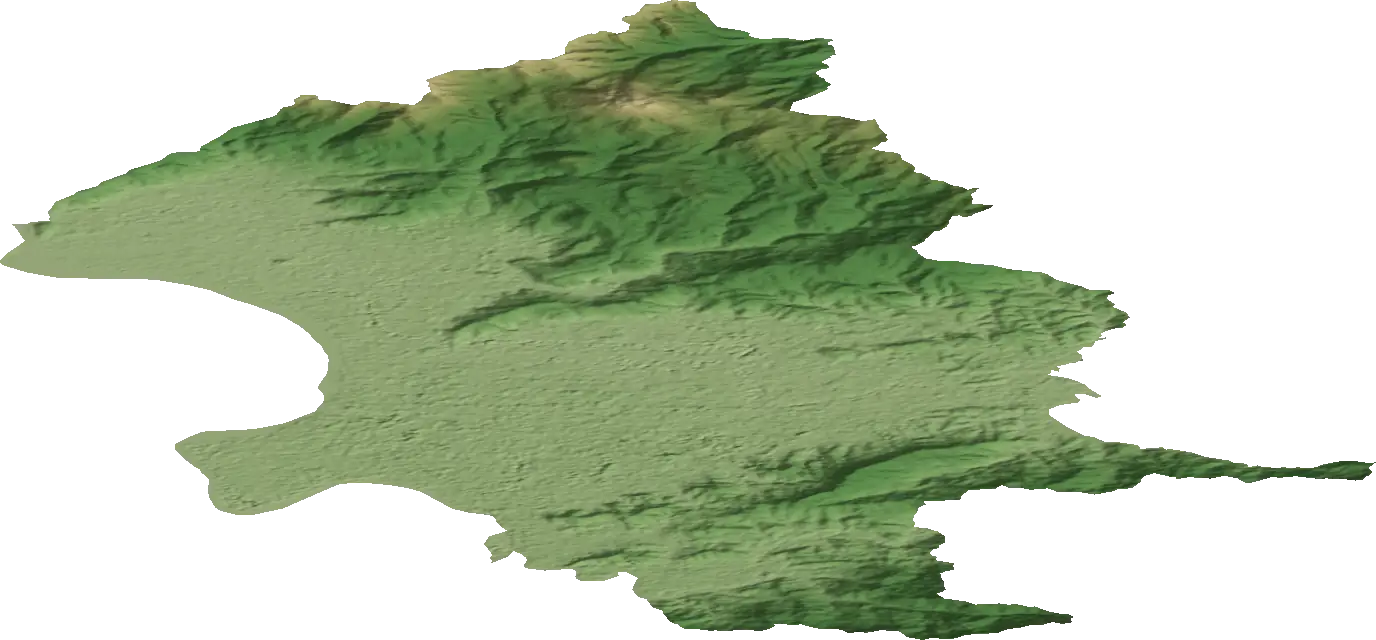
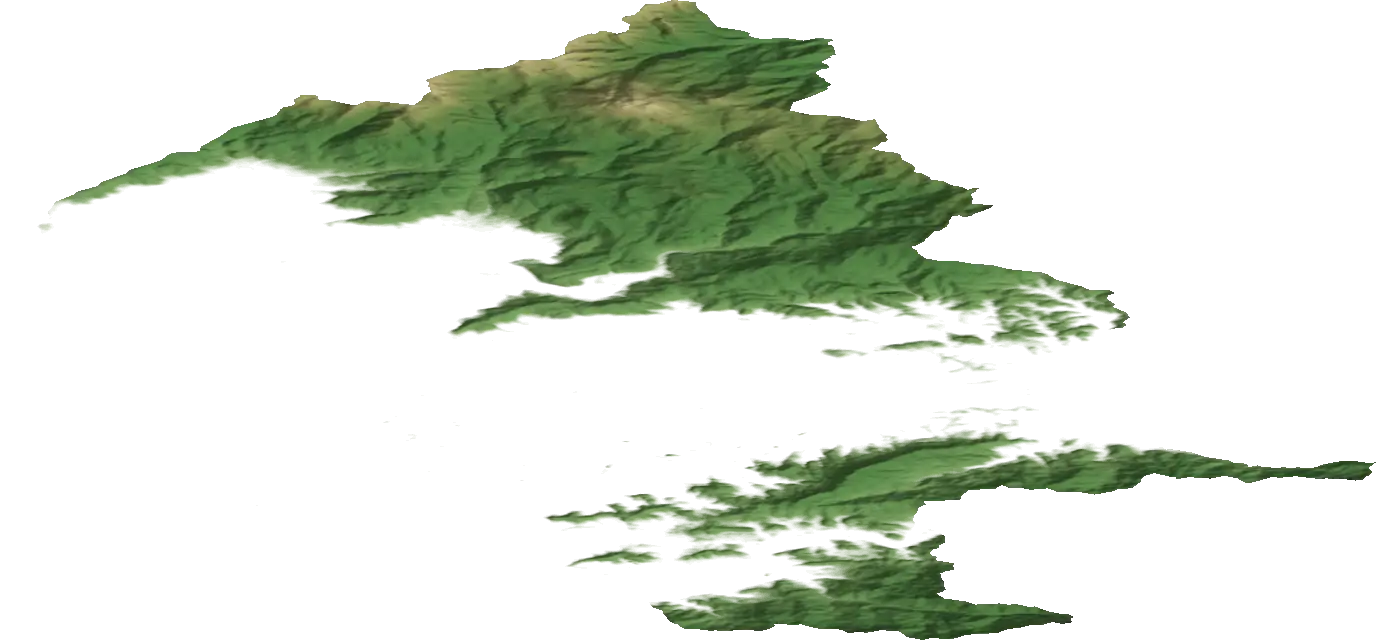
汪星的地形圖只畫山：海拔 30 公尺以下的盆地、平地透明（維持原本的樣子），30～90 公尺慢慢出現，山腳融進平地（WebP 透明度壓一點，約 40 KB）

Changed region(s): [[0.0, 0.25, 0.875, 0.9688]]

diff --git a/README.md b/README.md
@@ -80,7 +80,7 @@ worker/   Cloudflare Worker（API、排程、資料庫）
 ## 手機介面
 
 - 以手機直式為主：雷達占滿中間，底部是可上拉的清單面板，桌機則把清單放右側欄。
-- 雷達左下可切 1 / 5 / 20 km、「雙北」「全台」「全球」範圍。從「全球」再用雙指、滾輪拉遠就是太空（`web/src/space.ts`，第一次用到才載入；沒有另外的按鈕、不用切換，最遠 50 億 km），跟雷達平常一樣用虛線畫在海岸線那一層、刻度圈照樣有（寫幾萬、幾億 km；超過地球另一面的在雷達外面，不畫，電腦版雷達兩旁還有空間才不會露出一圈），太空裡一次縮放的幅度是平常的平方（從全球到海王星約 20 格滾輪）：先是以你為中心的地球（正射投影，陸地跟全球一樣淡淡填色、虛線海岸，經緯線每 30 度，夜晚的那一半照現在時間淡淡變暗；太陽直射點用簡化公式，誤差不到 1 度），剛超過全球時塞滿雷達，拉遠到 4 倍以後照真實比例（`globeFrac`），光點照球面擺、地球另一面的不畫，地球小到看不出光點在哪就不畫光點；陸地在另一面的那一段沿著地球邊緣走短的那邊（南北美洲連成一塊、繞過台灣正對面，照每個點走會把整個地球塗滿）。再拉遠是月球的軌道和月球（簡化公式），太陽、八大行星和軌道，加上地球和火星之間虛構的「汪星」（1.26 AU、約 1.4 年繞一圈；放大到看得出形狀就跟地球一樣畫成球：經緯線、虛線的邊，夜晚那一半照太陽真正的方向，正中間的經緯度跟著拖曳轉；地表是台北市（`web/src/taipei.ts`：市界、12 區的區界來自 OpenStreetMap 行政界，道路跟雷達 8 km 內一樣是 OpenFreeMap z11 圖磚的國道、快速道路粗線和主要、次要幹道細線，只留市界裡面的，照攤到汪星上的大小簡化，© OpenStreetMap contributors，ODbL）：市界的範圍照經緯度攤開包住整顆汪星（緯度 ±80 度、經度 ±172 度，`toWoof`，東西向拉寬了），市界外面、南北極、背面接縫是海；汪星的大小照台北市的面積算（`WOOF_KM`：陸地面積跟台北市一樣，半徑約 6.6 km，平均是台北的真實大小，東西向赤道附近寬約 1.9 倍、南北向約 0.66 倍）；只用線條、不畫虛線（經緯線、海岸線、區界、球的邊都不畫，海岸和球的邊看陸地、海的顏色；陸地淡淡填色，陸地以外的海淡淡的水色（`woof-sea`：整顆挖掉陸地，放大很多時雷達整個在球上就用畫面的範圍），拉近到外圈約 500 公尺內海上有一道道水波（`woof-ripple`，跟公園的水池同一種撒法 `scatter`），山是真實的地形圖（`web/src/woof-relief.webp`，約 34 KB，第一次看汪星的地圖才下載）：用 AWS Terrain Tiles（terrarium z13，高度資料來自 SRTM 等）照台北真實的高度上色（盆地淡綠、山上森林深綠、最高的草原偏黃褐），加上山的光影（光從西北方 45 度照下來、起伏放大 2 倍），只留台北市界裡面的，攤在汪星的經緯度上（1376×640）；雷達底色上面另外一層 canvas（`radar.ts` 的 `paintRelief`，對齊 SVG 的正方形、裁成雷達的圓，最多 480 像素見方、拖曳時 200，CSS 放大），`space.ts` 的 `paintWoofRelief` 每一個像素反推回汪星的經緯度（正射投影反過來，扣掉指北針轉的角度；每 4 個像素精算一次、中間內插，球的邊和接縫逐點算）去地形圖上取顏色（附近四格照距離混），夜晚那一半、海、道路照樣畫在上面；拉近慢慢變淡（外圈約 3 公里內開始、約 400 公尺內不畫），鎖定跟著狗走時跟著平移，區界跟縣市界一樣淡的虛線，球夠大才畫道路，區名不寫）。陸地比半個球大，海岸線轉到另一面的地方從轉過去的那點沿著邊緣逆時針走到下一個轉回來的那點（`hemiPath`，市界要逆時針；整條海岸線都在另一面、正中間在陸地上就整面都是陸地）；中心是汪星時可以一直放大到 1 km（`focusMinKm`），手指拖過表面多遠就轉多少，畫面外的段不畫；中山公園（國父紀念館）跟地球的雷達共用一份（見下面的「中山公園」），汪星這邊只負責把台北的經緯度攤到球上（`WOOF_PARK`），草和水波要飛過去當中心才畫，正中間在公園附近（`atPark`）可以放大到 0.5 公尺（放大後拖離公園不再放大、可以拉遠，回到地球、地球上不在公園附近就拉遠到 0.5 km，重新整理也至少 0.5 km），100 公尺內的刻度寫公尺、公分；線每 2 度一點連起來是弦（汪星上約差 1 公尺），放大時看得到的那一小塊再切細（`nearOf`：只切那一小塊裡面的那一段，切到弦離球面不到 0.05 像素）；拉近到畫面上的台北半徑 2 km 內（南北、東西平均，汪星約 2 km 以內）跟雷達 2 km 內一樣載入 z13 圖磚畫大街小巷（`WOOF_STREET_KM`，`streetTiles` 跟雷達共用圖磚，全部抓到才換掉內建的道路，市界外面的切掉，每條街每 2 度一點、算過的記起來））（以地球為中心照真實距離，黃道面、春分點方向在右邊；行星位置用 JPL 的近似軌道根數，1800–2050 年適用，解克卜勒方程式），名字疊到就換位置。星球照真實大小畫（太小就畫最小的大小），線條跟雷達一樣、淡淡的顏色讓人認得出來，背對太陽的一半變暗：太陽有光芒、土星有環（後半圈被擋住）、天王星的環是直的、木星有條紋和大紅斑、海王星有暗斑、火星有極冠、月球有坑（放大後還有月海、更多坑）。位置每 10 分鐘更新；太空裡一樣可以拖曳移動位置，拖的是地球（手指拖過地球表面多遠就轉多少，照地球在雷達上的半徑換算），地球小到只剩一個點（`TINY_EARTH`，月球、行星那幾層）就改成 3D 轉視角（`SpaceView`：左右拖繞中心轉、上下拖傾斜，最多 80 度，拖過整個雷達的寬度轉半圈；位置、軌道都是 3D 的，含軌道傾角、月球軌道斜 5 度，遠的先畫，傾斜時軌道變成斜的橢圓；你的位置不變），點星球就飛過去當中心（`data-body`，點地球回到你），中心換到別的星球就一直維持、可以拉近到全球以內（例如月球，最多放大到星球半徑的 1.3 倍，汪星到 1 km，不對齊範圍按鈕；刻度圈照比例，是離那顆星球中心的距離），你畫在地球那裡、寫「地球（你）」；光點不畫，「回到我的位置」會出現，按了回到地球、從正上方看（按範圍按鈕也是）；中心是你的時候拉近到看得出地球的形狀，轉過的視角自動轉回來；切到地圖再切回來是全球的比例。範圍比雙北小、50 km 內畫道路（選「雙北」和更大的範圍只畫虛線；人在雙北以外時雙北的半徑很大，所以門檻是雙北的半徑和 50 km 取小的，`outlineKm`，比它大就畫海岸線、縣市界，道路和虛線中間不會空一段）（`web/src/streets.ts`，第一次用到才載入）：用 [OpenFreeMap](https://openfreemap.org) 的向量圖磚（OpenMapTiles 格式，資料來自 OpenStreetMap；免費、不用金鑰，雷達下面標出處），先讀 TileJSON 拿到當週的圖磚網址；範圍越大用越粗一級的圖磚、畫的路越少（`STREET_TIERS`，圖磚寬度都大於畫面直徑，最多四張）：2 km 內 z13（約 4.4 km 寬，大街小巷：快速道路、主要幹道、次要幹道粗線，其他街道細線；z14 多了建築、門牌、店家，市區一張壓縮後就六百多 KB），8 km 內 z11（國道、快速道路粗線，主要、次要幹道細線），16 km 內 z10、33 km 內 z9（國道、快速道路粗線，主要幹道細線），再大 z8（只畫國道、快速道路）；一張壓縮後約 70–180 KB，最多記住 64 張。自己解讀 protobuf 只取 transportation 圖層，服務道路、步道、鐵路、隧道、施工中的不畫；顏色用雷達格線的顏色、很淡，跟著手機朝向轉，拖曳時每一幀用平面近似重算，粗線、細線各合成一條 path。「雙北」畫雙北縣市界；範圍比雙北大（全台、全球、縮放到比雙北遠）一律畫海岸線，1000 km 內再畫縣市在陸地上的交界（`web/src/counties.ts`，OpenStreetMap 22 個縣市的行政界去掉海岸線、海上的界線，© OpenStreetMap contributors，ODbL，簡化到約 250 m，跟世界海岸線一起第一次用到才載入，畫得比海岸線淡）：台灣用 `TAIWAN_RINGS`，加上全世界的（世界資料裡的台灣太粗，換掉），超出外圈的點不畫、斷開的線不填色。「全球」半徑約 20,040 km（地球另一面），用 Natural Earth 1:110m 的陸地海岸線（`web/src/world.ts`，公有領域，簡化到約 0.25 度、去掉南極洲和小島，第一次選才載入）畫虛線；雷達是以目前位置為中心的方位等距投影，相鄰兩點在畫面上離太遠就斷開不連線。範圍超過 600 km 時改抓全世界的事件（`/api/events` 的 `radius_km` 最大 20,040），一次最多回傳 1000 筆（固定據點每天一筆，200 筆時比較晚開始的會被擠掉）。「雙北」照台北市＋新北市的縣市界判斷（`web/src/shuangbei.ts`，OpenStreetMap 新北市行政界簡化，© OpenStreetMap contributors，ODbL），雷達與地圖畫出輪廓，基隆、桃園、宜蘭算雙北以外。「雙北」是預設；「雙北」「全台」的半徑會依你的位置自動算到能涵蓋整個區域（全台含澎湖、金門、馬祖）；右上可切換地圖、開啟指北針（雷達跟著手機朝向轉，iOS 會先問權限）。
+- 雷達左下可切 1 / 5 / 20 km、「雙北」「全台」「全球」範圍。從「全球」再用雙指、滾輪拉遠就是太空（`web/src/space.ts`，第一次用到才載入；沒有另外的按鈕、不用切換，最遠 50 億 km），跟雷達平常一樣用虛線畫在海岸線那一層、刻度圈照樣有（寫幾萬、幾億 km；超過地球另一面的在雷達外面，不畫，電腦版雷達兩旁還有空間才不會露出一圈），太空裡一次縮放的幅度是平常的平方（從全球到海王星約 20 格滾輪）：先是以你為中心的地球（正射投影，陸地跟全球一樣淡淡填色、虛線海岸，經緯線每 30 度，夜晚的那一半照現在時間淡淡變暗；太陽直射點用簡化公式，誤差不到 1 度），剛超過全球時塞滿雷達，拉遠到 4 倍以後照真實比例（`globeFrac`），光點照球面擺、地球另一面的不畫，地球小到看不出光點在哪就不畫光點；陸地在另一面的那一段沿著地球邊緣走短的那邊（南北美洲連成一塊、繞過台灣正對面，照每個點走會把整個地球塗滿）。再拉遠是月球的軌道和月球（簡化公式），太陽、八大行星和軌道，加上地球和火星之間虛構的「汪星」（1.26 AU、約 1.4 年繞一圈；放大到看得出形狀就跟地球一樣畫成球：經緯線、虛線的邊，夜晚那一半照太陽真正的方向，正中間的經緯度跟著拖曳轉；地表是台北市（`web/src/taipei.ts`：市界、12 區的區界來自 OpenStreetMap 行政界，道路跟雷達 8 km 內一樣是 OpenFreeMap z11 圖磚的國道、快速道路粗線和主要、次要幹道細線，只留市界裡面的，照攤到汪星上的大小簡化，© OpenStreetMap contributors，ODbL）：市界的範圍照經緯度攤開包住整顆汪星（緯度 ±80 度、經度 ±172 度，`toWoof`，東西向拉寬了），市界外面、南北極、背面接縫是海；汪星的大小照台北市的面積算（`WOOF_KM`：陸地面積跟台北市一樣，半徑約 6.6 km，平均是台北的真實大小，東西向赤道附近寬約 1.9 倍、南北向約 0.66 倍）；只用線條、不畫虛線（經緯線、海岸線、區界、球的邊都不畫，海岸和球的邊看陸地、海的顏色；陸地淡淡填色，陸地以外的海淡淡的水色（`woof-sea`：整顆挖掉陸地，放大很多時雷達整個在球上就用畫面的範圍），拉近到外圈約 500 公尺內海上有一道道水波（`woof-ripple`，跟公園的水池同一種撒法 `scatter`），山是真實的地形圖（`web/src/woof-relief.webp`，約 40 KB，第一次看汪星的地圖才下載）：用 AWS Terrain Tiles（terrarium z13，高度資料來自 SRTM 等）照台北真實的高度上色（山腳淡綠、山上森林深綠、最高的草原偏黃褐），加上山的光影（光從西北方 45 度照下來、起伏放大 2 倍），只畫山（海拔 30 公尺以下的盆地、平地透明，30～90 公尺慢慢出現，山腳融進平地），只留台北市界裡面的，攤在汪星的經緯度上（1376×640）；雷達底色上面另外一層 canvas（`radar.ts` 的 `paintRelief`，對齊 SVG 的正方形、裁成雷達的圓，最多 480 像素見方、拖曳時 200，CSS 放大），`space.ts` 的 `paintWoofRelief` 每一個像素反推回汪星的經緯度（正射投影反過來，扣掉指北針轉的角度；每 4 個像素精算一次、中間內插，球的邊和接縫逐點算）去地形圖上取顏色（附近四格照距離混），夜晚那一半、海、道路照樣畫在上面；拉近慢慢變淡（外圈約 3 公里內開始、約 400 公尺內不畫），鎖定跟著狗走時跟著平移，區界跟縣市界一樣淡的虛線，球夠大才畫道路，區名不寫）。陸地比半個球大，海岸線轉到另一面的地方從轉過去的那點沿著邊緣逆時針走到下一個轉回來的那點（`hemiPath`，市界要逆時針；整條海岸線都在另一面、正中間在陸地上就整面都是陸地）；中心是汪星時可以一直放大到 1 km（`focusMinKm`），手指拖過表面多遠就轉多少，畫面外的段不畫；中山公園（國父紀念館）跟地球的雷達共用一份（見下面的「中山公園」），汪星這邊只負責把台北的經緯度攤到球上（`WOOF_PARK`），草和水波要飛過去當中心才畫，正中間在公園附近（`atPark`）可以放大到 0.5 公尺（放大後拖離公園不再放大、可以拉遠，回到地球、地球上不在公園附近就拉遠到 0.5 km，重新整理也至少 0.5 km），100 公尺內的刻度寫公尺、公分；線每 2 度一點連起來是弦（汪星上約差 1 公尺），放大時看得到的那一小塊再切細（`nearOf`：只切那一小塊裡面的那一段，切到弦離球面不到 0.05 像素）；拉近到畫面上的台北半徑 2 km 內（南北、東西平均，汪星約 2 km 以內）跟雷達 2 km 內一樣載入 z13 圖磚畫大街小巷（`WOOF_STREET_KM`，`streetTiles` 跟雷達共用圖磚，全部抓到才換掉內建的道路，市界外面的切掉，每條街每 2 度一點、算過的記起來））（以地球為中心照真實距離，黃道面、春分點方向在右邊；行星位置用 JPL 的近似軌道根數，1800–2050 年適用，解克卜勒方程式），名字疊到就換位置。星球照真實大小畫（太小就畫最小的大小），線條跟雷達一樣、淡淡的顏色讓人認得出來，背對太陽的一半變暗：太陽有光芒、土星有環（後半圈被擋住）、天王星的環是直的、木星有條紋和大紅斑、海王星有暗斑、火星有極冠、月球有坑（放大後還有月海、更多坑）。位置每 10 分鐘更新；太空裡一樣可以拖曳移動位置，拖的是地球（手指拖過地球表面多遠就轉多少，照地球在雷達上的半徑換算），地球小到只剩一個點（`TINY_EARTH`，月球、行星那幾層）就改成 3D 轉視角（`SpaceView`：左右拖繞中心轉、上下拖傾斜，最多 80 度，拖過整個雷達的寬度轉半圈；位置、軌道都是 3D 的，含軌道傾角、月球軌道斜 5 度，遠的先畫，傾斜時軌道變成斜的橢圓；你的位置不變），點星球就飛過去當中心（`data-body`，點地球回到你），中心換到別的星球就一直維持、可以拉近到全球以內（例如月球，最多放大到星球半徑的 1.3 倍，汪星到 1 km，不對齊範圍按鈕；刻度圈照比例，是離那顆星球中心的距離），你畫在地球那裡、寫「地球（你）」；光點不畫，「回到我的位置」會出現，按了回到地球、從正上方看（按範圍按鈕也是）；中心是你的時候拉近到看得出地球的形狀，轉過的視角自動轉回來；切到地圖再切回來是全球的比例。範圍比雙北小、50 km 內畫道路（選「雙北」和更大的範圍只畫虛線；人在雙北以外時雙北的半徑很大，所以門檻是雙北的半徑和 50 km 取小的，`outlineKm`，比它大就畫海岸線、縣市界，道路和虛線中間不會空一段）（`web/src/streets.ts`，第一次用到才載入）：用 [OpenFreeMap](https://openfreemap.org) 的向量圖磚（OpenMapTiles 格式，資料來自 OpenStreetMap；免費、不用金鑰，雷達下面標出處），先讀 TileJSON 拿到當週的圖磚網址；範圍越大用越粗一級的圖磚、畫的路越少（`STREET_TIERS`，圖磚寬度都大於畫面直徑，最多四張）：2 km 內 z13（約 4.4 km 寬，大街小巷：快速道路、主要幹道、次要幹道粗線，其他街道細線；z14 多了建築、門牌、店家，市區一張壓縮後就六百多 KB），8 km 內 z11（國道、快速道路粗線，主要、次要幹道細線），16 km 內 z10、33 km 內 z9（國道、快速道路粗線，主要幹道細線），再大 z8（只畫國道、快速道路）；一張壓縮後約 70–180 KB，最多記住 64 張。自己解讀 protobuf 只取 transportation 圖層，服務道路、步道、鐵路、隧道、施工中的不畫；顏色用雷達格線的顏色、很淡，跟著手機朝向轉，拖曳時每一幀用平面近似重算，粗線、細線各合成一條 path。「雙北」畫雙北縣市界；範圍比雙北大（全台、全球、縮放到比雙北遠）一律畫海岸線，1000 km 內再畫縣市在陸地上的交界（`web/src/counties.ts`，OpenStreetMap 22 個縣市的行政界去掉海岸線、海上的界線，© OpenStreetMap contributors，ODbL，簡化到約 250 m，跟世界海岸線一起第一次用到才載入，畫得比海岸線淡）：台灣用 `TAIWAN_RINGS`，加上全世界的（世界資料裡的台灣太粗，換掉），超出外圈的點不畫、斷開的線不填色。「全球」半徑約 20,040 km（地球另一面），用 Natural Earth 1:110m 的陸地海岸線（`web/src/world.ts`，公有領域，簡化到約 0.25 度、去掉南極洲和小島，第一次選才載入）畫虛線；雷達是以目前位置為中心的方位等距投影，相鄰兩點在畫面上離太遠就斷開不連線。範圍超過 600 km 時改抓全世界的事件（`/api/events` 的 `radius_km` 最大 20,040），一次最多回傳 1000 筆（固定據點每天一筆，200 筆時比較晚開始的會被擠掉）。「雙北」照台北市＋新北市的縣市界判斷（`web/src/shuangbei.ts`，OpenStreetMap 新北市行政界簡化，© OpenStreetMap contributors，ODbL），雷達與地圖畫出輪廓，基隆、桃園、宜蘭算雙北以外。「雙北」是預設；「雙北」「全台」的半徑會依你的位置自動算到能涵蓋整個區域（全台含澎湖、金門、馬祖）；右上可切換地圖、開啟指北針（雷達跟著手機朝向轉，iOS 會先問權限）。
 - 清單上方是搜尋框（原本「搜尋中的關鍵字」那一列移到說明頁，說明頁從 `/api/keywords` 讀；完整的判讀規則面板用 `./?open=keywords` 打開）：在目前抓到的事件裡找字（標題、地點、物品、帳號、關鍵字、原文摘錄、補充、類型、車掃名稱；小寫、去空白、臺台不分，空白分開的每個字都要符合），雷達、地圖、清單、各類數量都只算符合的；開始時的通知不受搜尋影響；從「我的回報」「看」、推播打開不符合的那一則時自動清除搜尋。
 - 雷達單指（或滑鼠）拖曳移動中心（`Radar` 的 `onPan`：移動超過 8 px 才算拖，螢幕位移換成方位與公里數，指北針模式加回手機朝向；拖到一半放第二根手指改成縮放；放開後的 click 不算點光點）。拖曳就是改「你的位置」成手動位置：拖的時候只重畫、範圍維持原本的公里數，放開才 `setOrigin`（存下來、重抓、雙北全台照新位置重算範圍）；手動位置時雷達左上出現「回到我的位置」：馬上回到最新的 GPS 位置，還沒收到 GPS（例如剛開頁面）就回到上次知道的位置（最後一次的 GPS 或移動前的位置，存在 `dr.home`；之後 GPS 回來照常更新），兩個都沒有才重新定位。
 - 點光點、地圖標記或清單打開詳細資料；點其他地方只收起卡片，雷達、地圖、清單上照樣選著那一則（標題、選取圈，車掃的站照樣畫整條路線；5 秒重畫也不會再跳出來），再點它重新打開，按卡片的「關閉」才取消選取（`dismissedId`）。車掃時間表、地標、漂流瓶、疊在一起的選單點其他地方照舊整個關掉。
